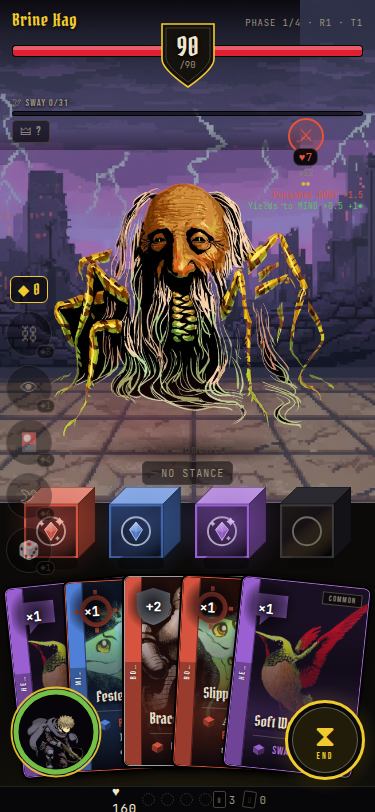
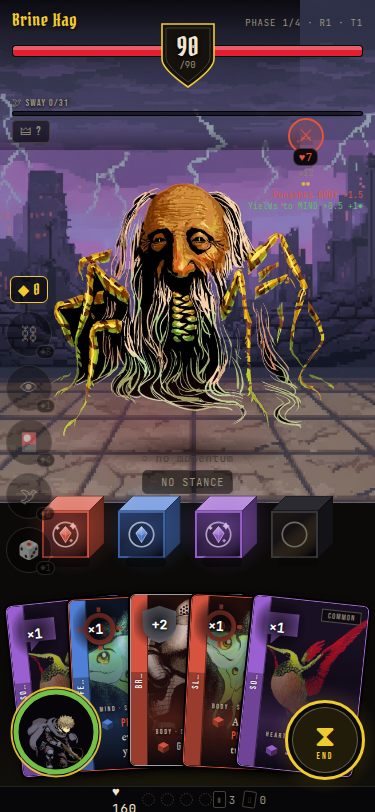
feat(combat): declutter pass — smaller dice + cards, card name onto the rail
Owner playtest follow-up (2026-07-19): the combat screen read too busy.

- Tray dice shave ~1/8 (54pt → 47pt cube, drag ghost 56 → 49 to match).
- Cards shrink ~9%: hand 132×194 → 120×176; staged 122×179 → 112×164
  (compact 100×147 → 92×135). The fan/band math keys off the constants.
- The card NAME moves onto the CENTER of the stance rail (vertical,
  centred, both face sizes); the STANCE · TYPE strip takes the name's old
  slot at the bottom as a small caps line, so no face info is lost. The
  name/paid divider rule goes with it.
- upgradeable-dice-e2e: the SWAY-commit guard now picks the LAST heart
  card in fan order — the leftmost copy's centre sits under the player
  medallion (deliberate corner chrome), so the pointer-down never reached
  the card and the stage-drag failed.

Verified: mobile verify gate green (lint + tsc + 2658 tests);
upgradeable-dice-e2e ALL PASS with zero NOTEs — this run also exercised
the loud "✕ MOMENTUM BROKEN" break and a live Press Fate tray reroll —
and refreshed the flag-on screenshots (smaller cube tray, rail names).

Claude-Session: https://claude.ai/code/session_01ATuM8VXSUgok7qxmhtYrVC

Changed region(s): [[0.0, 0.5542, 0.9973, 0.9544], [0.2347, 0.9236, 0.264, 0.9544], [0.0587, 0.9236, 0.088, 0.9544]]

diff --git a/axiomancer-mobile/components/combat/encounter/CombatBoard.tsx b/axiomancer-mobile/components/combat/encounter/CombatBoard.tsx
@@ -203,6 +203,9 @@ function SignatureColumn({ conviction, signatures, onCast, onInfo }: {
 
 // ── Dice row (free-floating gems above the hand) ─────────────────────────────
 
+// Owner declutter pass 2026-07-19: the 54pt cube crowded the board — shave ~1/8.
+const TRAY_DIE_SIZE = 47;
+
 function DiceRow({
     vm, dieGesture, draggingDieId, assignedDieIds, onFateTap,
 }: {
@@ -287,7 +290,7 @@ function DiceRow({
                         {ritual && plansById[die.id] ? (
                             <RollingDie
                                 die={die}
-                                size={54}
+                                size={TRAY_DIE_SIZE}
                                 dimmed={dieDimmed}
                                 mode={mode}
                                 plan={plansById[die.id]}
@@ -295,7 +298,7 @@ function DiceRow({
                                 onTumbleChange={onTumbleChange}
                             />
                         ) : (
-                            <CombatDie die={die} size={54} dimmed={dieDimmed} />
+                            <CombatDie die={die} size={TRAY_DIE_SIZE} dimmed={dieDimmed} />
                         )}
                         {die.reserve ? (
                             <Text style={[styles.dieConv, { color: AXM.sulfur }]} testID={`combat-reserve-${die.id}`}>
@@ -418,9 +421,10 @@ const StagedCard = React.memo(function StagedCard({
     const popStyle = useAnimatedStyle(() => ({ transform: [{ scale: pop.value }, { translateX: shake.value }] }));
     const armed = assignedDie !== null;
     const readColor = armed ? (READ_ACCENT[read] ?? AXM.bone) : AXM.bone;
-    // Option A rail needs width: staged faces track the hand-card proportion.
-    const cardW = compact ? 100 : 122;
-    const cardH = compact ? 147 : 179;
+    // Option A rail needs width: staged faces track the hand-card proportion
+    // (shaved with it in the 2026-07-19 declutter pass).
+    const cardW = compact ? 92 : 112;
+    const cardH = compact ? 135 : 164;
     // The keyword line shows the POWER value; for read-dependent kinds (guard) it is
     // recomputed live at the known read so the staged number is exact at commit.
     let heroOverride: string | undefined;
@@ -1518,16 +1522,16 @@ function cleanPaidSentence(vm: CombatCardVM): string {
 }
 
 /**
- * The shared card FACE — Option A layout (owner-picked 2026-07-09) — instanced
- * small in the hand and LARGE in the inspect modal so the two can never drift.
- *   · per-card ART (temp pool, keyword-matched) fills the top region behind a
+ * The shared card FACE — Option A layout (owner-picked 2026-07-09, declutter
+ * pass 2026-07-19) — instanced small in the hand and LARGE in the inspect
+ * modal so the two can never drift.
+ *   · per-card ART (temp pool, keyword-matched) fills the face behind a
  *     stance-tint gradient wash;
- *   · a glossy stance ORB (category glyph, stance colour) top-left;
- *   · the card NAME on a stance-coloured bevelled band, mid-card;
- *   · a bottom rail SPLIT 50/50: ◇ FREE (keyword · value) | ◆ PAID (keyword ·
- *     value, category colour), a visible divider between the halves;
- *   · printed die lines as ONE small line under the split (when present);
- *   · the TYPE STRIP at the very foot ("BODY · SPELL" — CURSE for disenchant).
+ *   · the LEFT RAIL (stance colour) carries the card NAME, centred vertically;
+ *   · the giant FREE glyph (+ intensity) top-left; rarity tag top-right;
+ *   · the bottom block: the TYPE STRIP ("BODY · SPELL" — CURSE for
+ *     disenchant), then the PAID sentence (die cube + keyword-bolded text),
+ *     then printed die lines (when present).
  * Identical wording at both sizes; definitions/pills/flavor live in the
  * inspect overlay, never on the face.
  */
@@ -1585,8 +1589,9 @@ export const CombatCardFace = React.memo(function CombatCardFace({
                 </View>
                 {/* SCRIM — deep→transparent so the bottom text stays legible */}
                 <FaceScrim w={width} h={height} uid={card.uid} tint={band} />
-                {/* LEFT RAIL — stance spine carrying the vertical identity label
-                    (STANCE · TYPE), centred so the full label always fits. */}
+                {/* LEFT RAIL — stance spine carrying the card NAME, centred on the
+                    rail (owner declutter pass 2026-07-19: the name moved here off
+                    the bottom block; the STANCE · TYPE strip took its old slot). */}
                 <View style={[styles.faceRail, { width: railW, backgroundColor: band }]} pointerEvents="none">
                     <View style={[styles.faceRailShade, { width: railW }]} />
                     <View style={styles.faceRailLabelWrap}>
@@ -1597,7 +1602,7 @@ export const CombatCardFace = React.memo(function CombatCardFace({
                             minimumFontScale={0.75}
                             allowFontScaling={false}
                         >
-                            {f.typeStrip}
+                            {card.name.toUpperCase()}
                         </Text>
                     </View>
                 </View>
@@ -1635,12 +1640,12 @@ export const CombatCardFace = React.memo(function CombatCardFace({
                         {rarity.toUpperCase()}
                     </Text>
                 </View>
-                {/* ③ + ② BOTTOM — name, then the paid sentence (die cube + text) */}
+                {/* ③ + ② BOTTOM — the type strip (the name lives on the rail now),
+                    then the paid sentence (die cube + text) */}
                 <View style={[styles.faceBtm, { left: railW + (large ? 12 : 8) }]}>
-                    <Text style={[styles.faceName, large && styles.faceNameLarge]} numberOfLines={large ? 2 : 1} adjustsFontSizeToFit minimumFontScale={0.7}>
-                        {card.name}
+                    <Text style={[styles.faceType, large && styles.faceTypeLarge]} numberOfLines={1}>
+                        {f.typeStrip}
                     </Text>
-                    <View style={styles.faceRule} />
                     <View style={styles.paidRow}>
                         <StanceCube color={band} size={large ? 22 : 15} />
                         {readPip ? <Text style={[styles.paidRead, { color: kwColor }]} allowFontScaling={false}>{readPip}</Text> : null}
@@ -1669,9 +1674,10 @@ export const CombatCardFace = React.memo(function CombatCardFace({
 // The fanned hand card — a small instance of the shared face, art-forward at the
 // reference's ~1:1.5 proportion. The fan-overlap math (band fit) keys off these
 // same constants — keep them in sync. Option A: 108×158 → 132×194 (the split
-// rail needs the room; the old size was illegible). Exported for the drag ghost.
-export const HAND_CARD_W = 132;
-export const HAND_CARD_H = 194;
+// rail needs the room; the old size was illegible) → 120×176 (owner declutter
+// pass 2026-07-19: the board read too busy). Exported for the drag ghost.
+export const HAND_CARD_W = 120;
+export const HAND_CARD_H = 176;
 function HandCard({ card }: { card: CombatCardVM }) {
     return <CombatCardFace card={card} width={HAND_CARD_W} height={HAND_CARD_H} />;
 }
@@ -1866,14 +1872,14 @@ const useStyles = makeStyles((AXM) => ({
     },
     faceRailShade: { position: 'absolute', left: 0, bottom: 0, height: '55%', backgroundColor: 'rgba(0,0,0,0.28)' },
     // Full-rail centred wrap: the rotated label spans (height − 16), so the
-    // whole STANCE · TYPE strip renders un-truncated at every card size.
+    // whole card name renders un-truncated at every card size.
     faceRailLabelWrap: { ...StyleSheet.absoluteFillObject, alignItems: 'center', justifyContent: 'center' },
     faceRailLabel: {
         textAlign: 'center', transform: [{ rotate: '-90deg' }],
-        fontFamily: FONTS.sans, fontSize: 8, letterSpacing: 2, color: 'rgba(255,255,255,0.92)',
-        textShadowColor: 'rgba(0,0,0,0.6)', textShadowRadius: 2,
+        fontFamily: FONTS.sans, fontSize: 9, letterSpacing: 1.6, color: 'rgba(255,255,255,0.95)',
+        textShadowColor: 'rgba(0,0,0,0.7)', textShadowRadius: 2,
     },
-    faceRailLabelLarge: { fontSize: 11, letterSpacing: 3 },
+    faceRailLabelLarge: { fontSize: 12, letterSpacing: 2.4 },
     // ① the giant FREE-effect glyph with its intensity centred INSIDE it.
     freeBadge: { position: 'absolute', alignItems: 'center', justifyContent: 'center' },
     freeGlyph: { textAlign: 'center', textShadowColor: 'rgba(0,0,0,0.9)', textShadowRadius: 4, textShadowOffset: { width: 0, height: 1 } },
@@ -1886,14 +1892,13 @@ const useStyles = makeStyles((AXM) => ({
     faceRarity: { position: 'absolute', top: 6, right: 6, backgroundColor: 'rgba(8,7,6,0.7)', borderWidth: 1, paddingHorizontal: 5, paddingVertical: 1 },
     faceRarityText: { fontFamily: FONTS.sans, fontSize: 8, letterSpacing: 1 },
     faceRarityTextLarge: { fontSize: 10, letterSpacing: 1.4 },
-    // ③ + ② bottom-anchored name + paid sentence.
+    // ③ + ② bottom-anchored type strip + paid sentence (the name is on the rail).
     faceBtm: { position: 'absolute', right: 10, bottom: 10 },
-    faceName: {
-        fontFamily: FONTS.gothic, fontSize: 15, lineHeight: 17, color: '#e8dfc8',
-        textShadowColor: '#000', textShadowRadius: 6, textShadowOffset: { width: 0, height: 2 },
+    faceType: {
+        fontFamily: FONTS.sans, fontSize: 7, letterSpacing: 1.5, color: 'rgba(232,223,200,0.75)',
+        textShadowColor: '#000', textShadowRadius: 4, marginBottom: 4,
     },
-    faceNameLarge: { fontSize: 25, lineHeight: 27 },
-    faceRule: { height: 1, backgroundColor: 'rgba(232,223,200,0.22)', marginVertical: 6 },
+    faceTypeLarge: { fontSize: 9, letterSpacing: 2, marginBottom: 6 },
     paidRow: { flexDirection: 'row', alignItems: 'flex-start', gap: 6 },
     paidRead: { fontFamily: FONTS.mono, fontSize: 11, marginTop: 1 },
     paidTextWrap: { flex: 1 },

diff --git a/axiomancer-mobile/components/combat/encounter/CombatEncounterPanel.tsx b/axiomancer-mobile/components/combat/encounter/CombatEncounterPanel.tsx
@@ -57,7 +57,7 @@ type DropResolver = (payload: DragPayload, x: number, y: number) => void | Promi
 /** Rendered size of the dragged-die ghost chip — the die ghost anchors on HALF
  *  of its rendered FOOTPRINT (cube + shadow, not the bare size) so it tracks
  *  the pointer (see dieGhostStyle). */
-const DIE_GHOST_SIZE = 56;
+const DIE_GHOST_SIZE = 49;
 const DIE_GHOST_FOOT = combatDieFootprint(DIE_GHOST_SIZE);
 
 /** WI-3 — how long an END-phase press locks the button + staging while the
